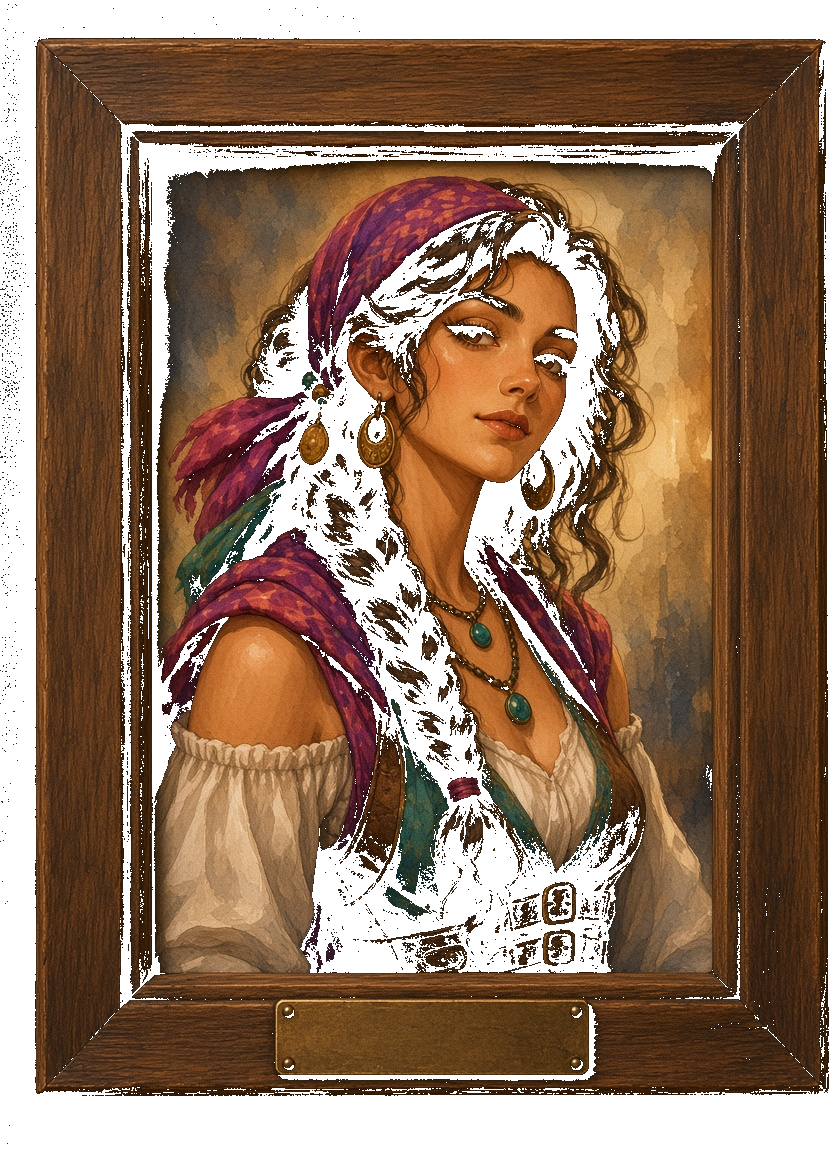
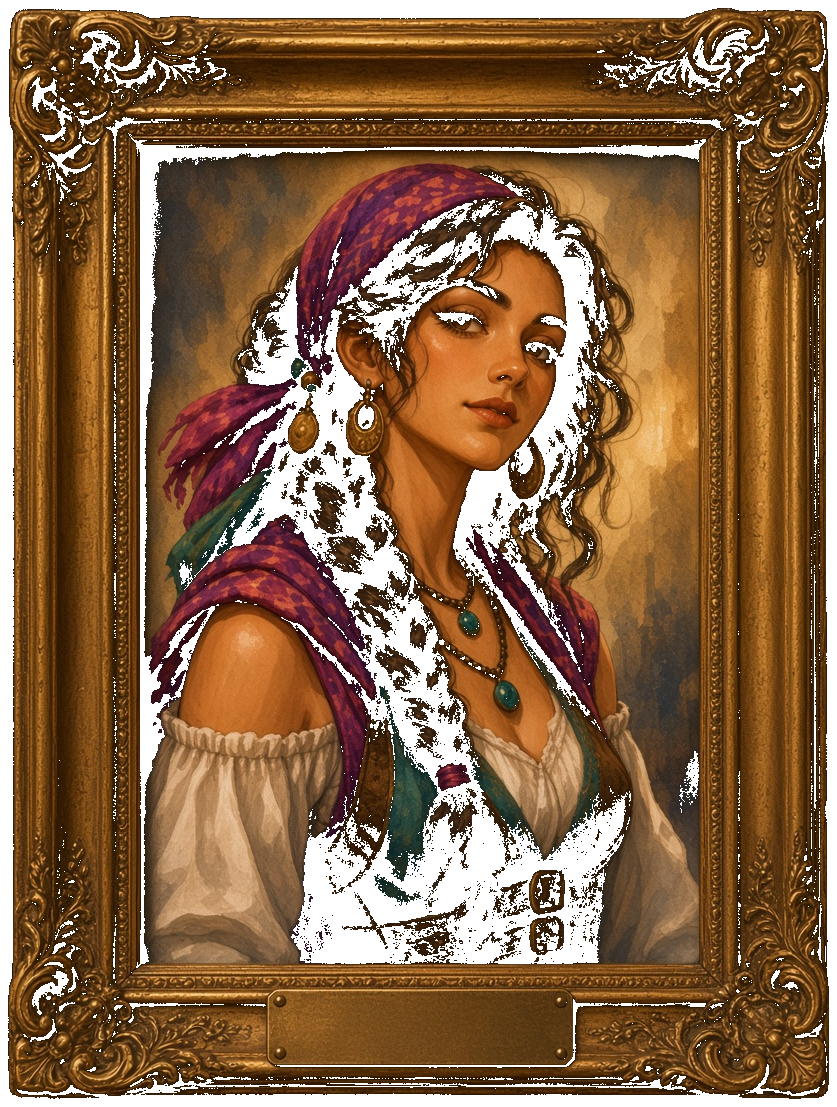
Give the Club champion picture an ornate gilt frame.
Keep the same hook on the painted wall picture. Replace the plain oak
border with Club-style gold moulding so it sits with the other portraits.

diff --git a/index.html b/index.html
@@ -7905,7 +7905,6 @@ if ('serviceWorker' in navigator) {
   height:100%;
   object-fit:fill;
   object-position:center;
-  background:#3d2814;
   pointer-events:none;
 }
 #visualShell .townScene #clubWallHotspot:active{transform:scale(.97);filter:sepia(.12) saturate(.84) brightness(.84) contrast(.9)}
@@ -11814,7 +11813,7 @@ body[data-saturday-week="1"] .locationStrip [data-loc="Card Club"]{
   position:relative;
   width:100%;
   max-height:100%;
-  aspect-ratio:837/1152;
+  aspect-ratio:837/1107;
   filter:drop-shadow(0 10px 16px #0008);
 }
 #clubWall .clubWallArt{
@@ -11828,12 +11827,12 @@ body[data-saturday-week="1"] .locationStrip [data-loc="Card Club"]{
 }
 #clubWall .clubWallPlate{
   position:absolute;
-  left:30%;
-  right:30%;
-  bottom:7.2%;
+  left:28%;
+  right:28%;
+  bottom:3.6%;
   margin:0;
   padding:0 4px;
-  height:7.5%;
+  height:5.4%;
   display:flex;
   align-items:center;
   justify-content:center;

diff --git a/service-worker.js b/service-worker.js
@@ -1,4 +1,4 @@
-const CACHE_NAME = 'card-road-pwa-v130-club-champ-fit';
+const CACHE_NAME = 'card-road-pwa-v131-club-champ-ornate';
 const CORE_ASSETS = [
   './index.html',
   './manifest.webmanifest',
